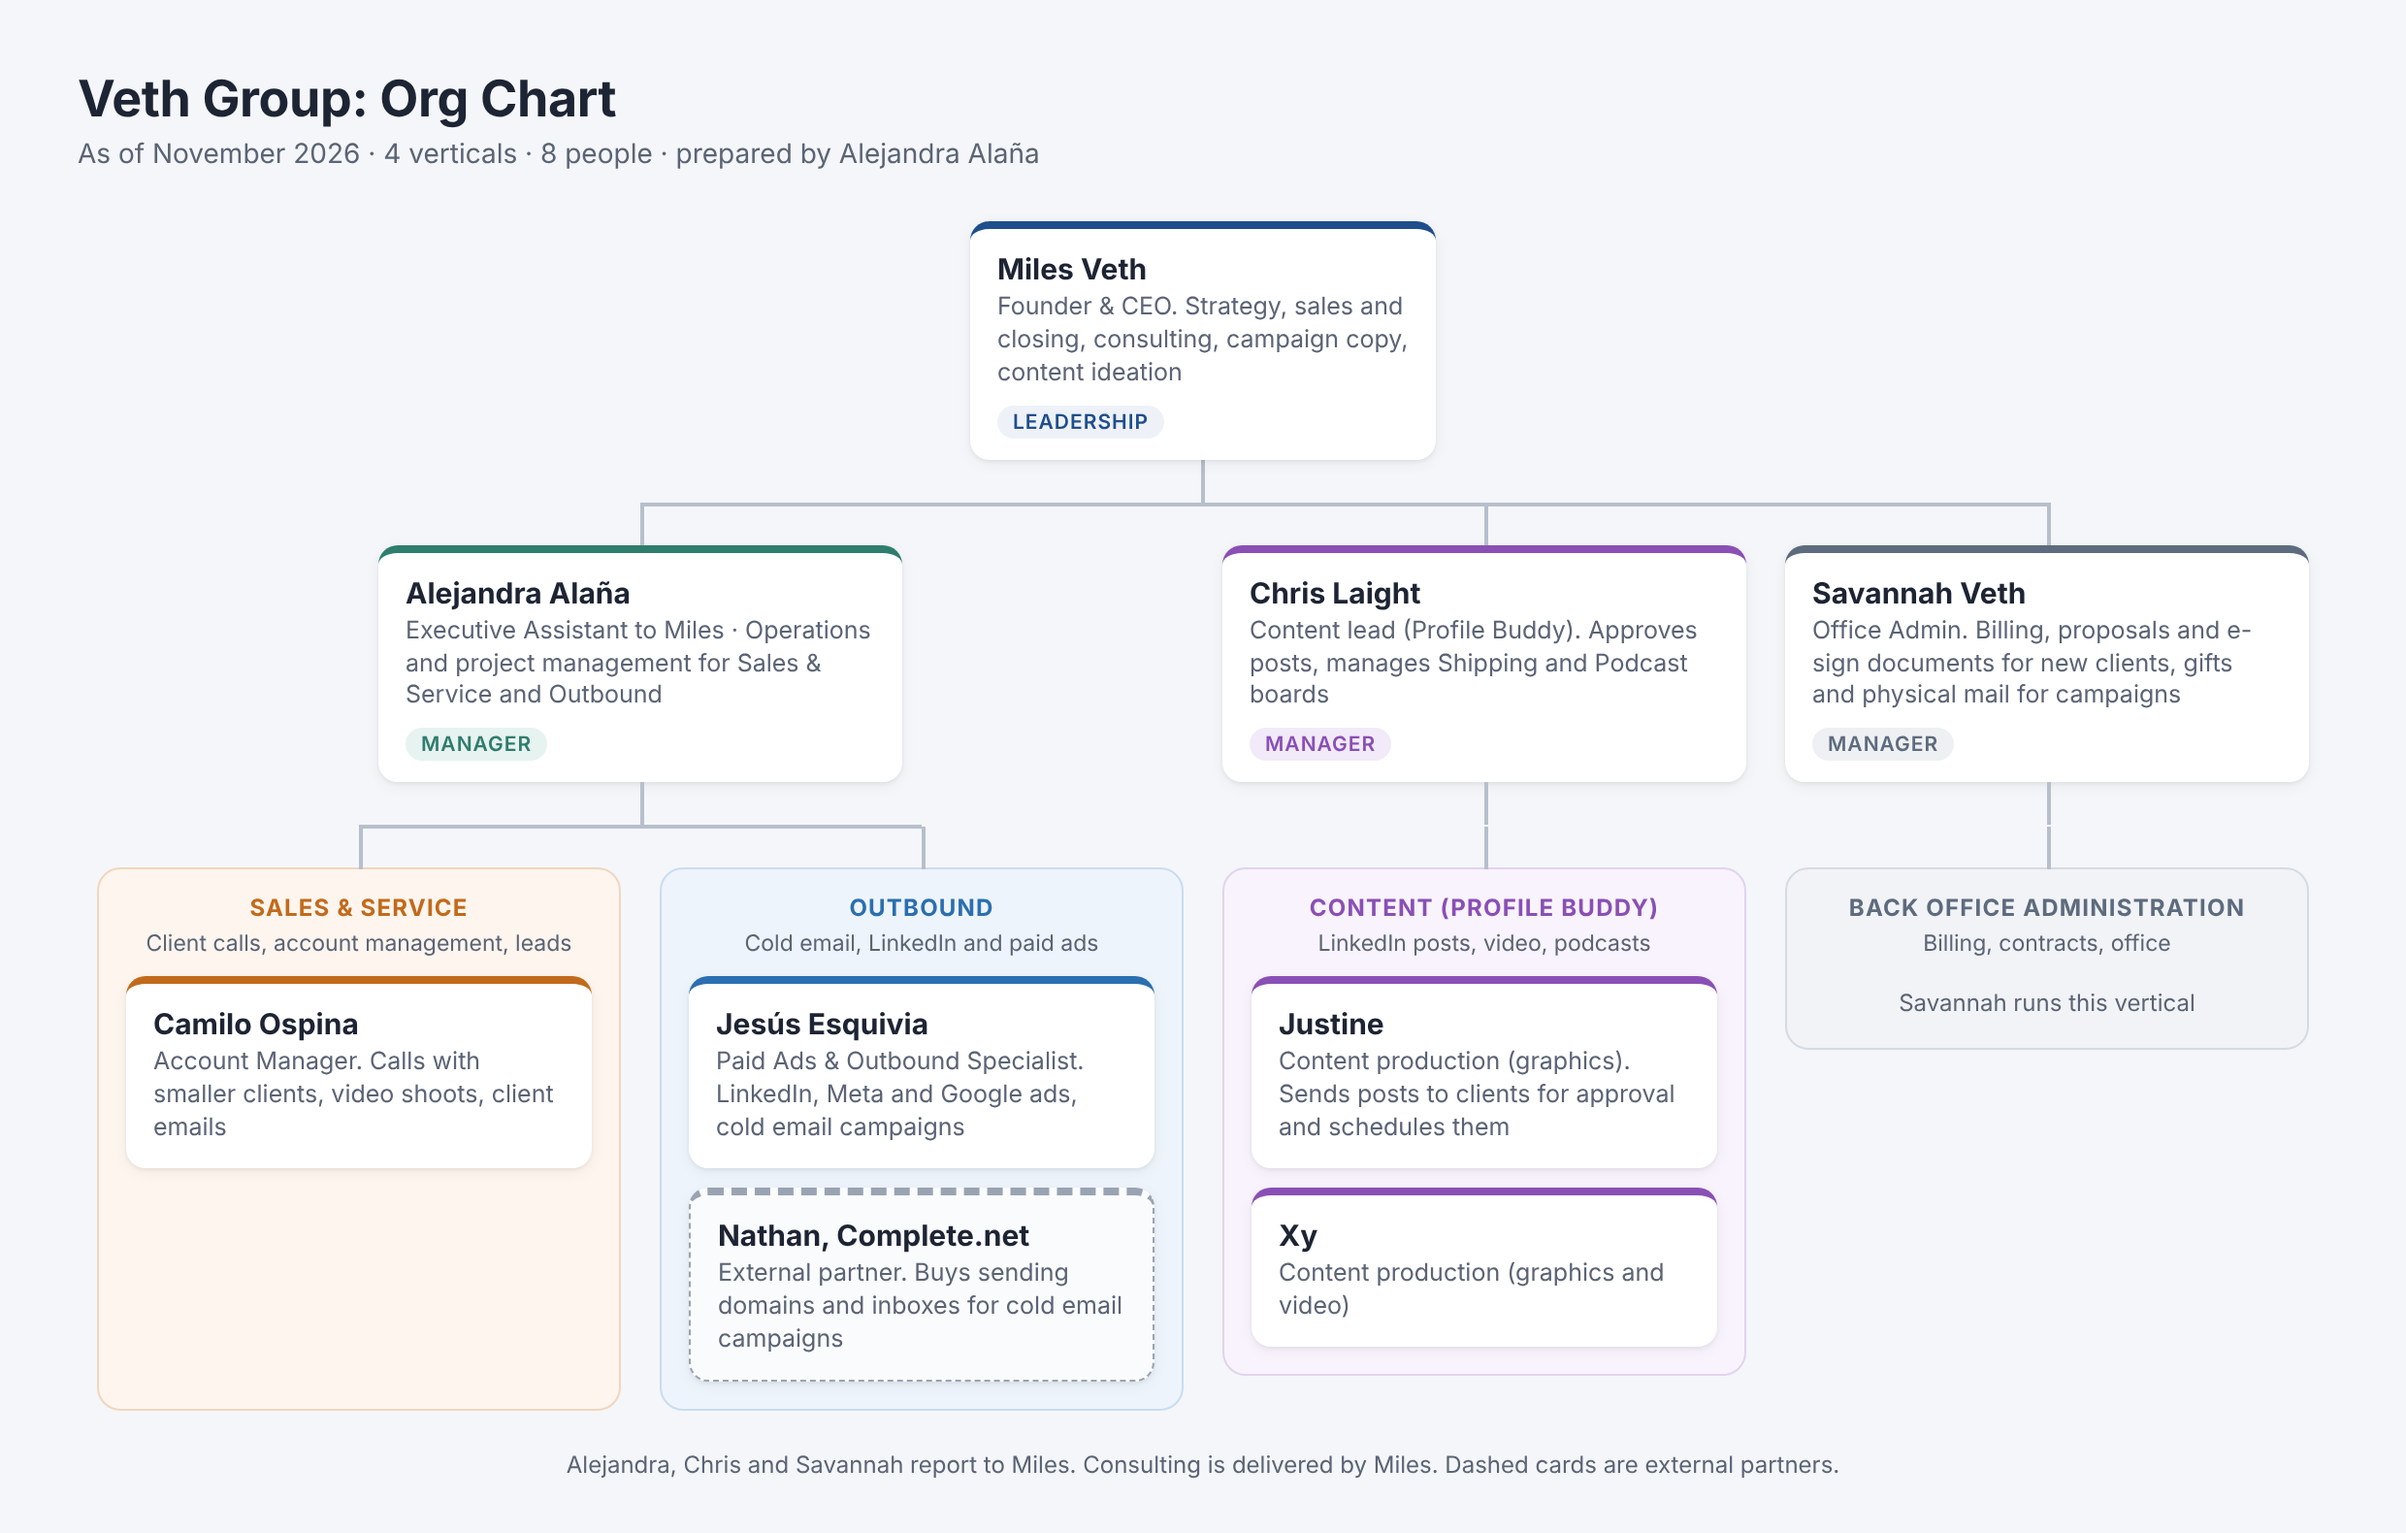
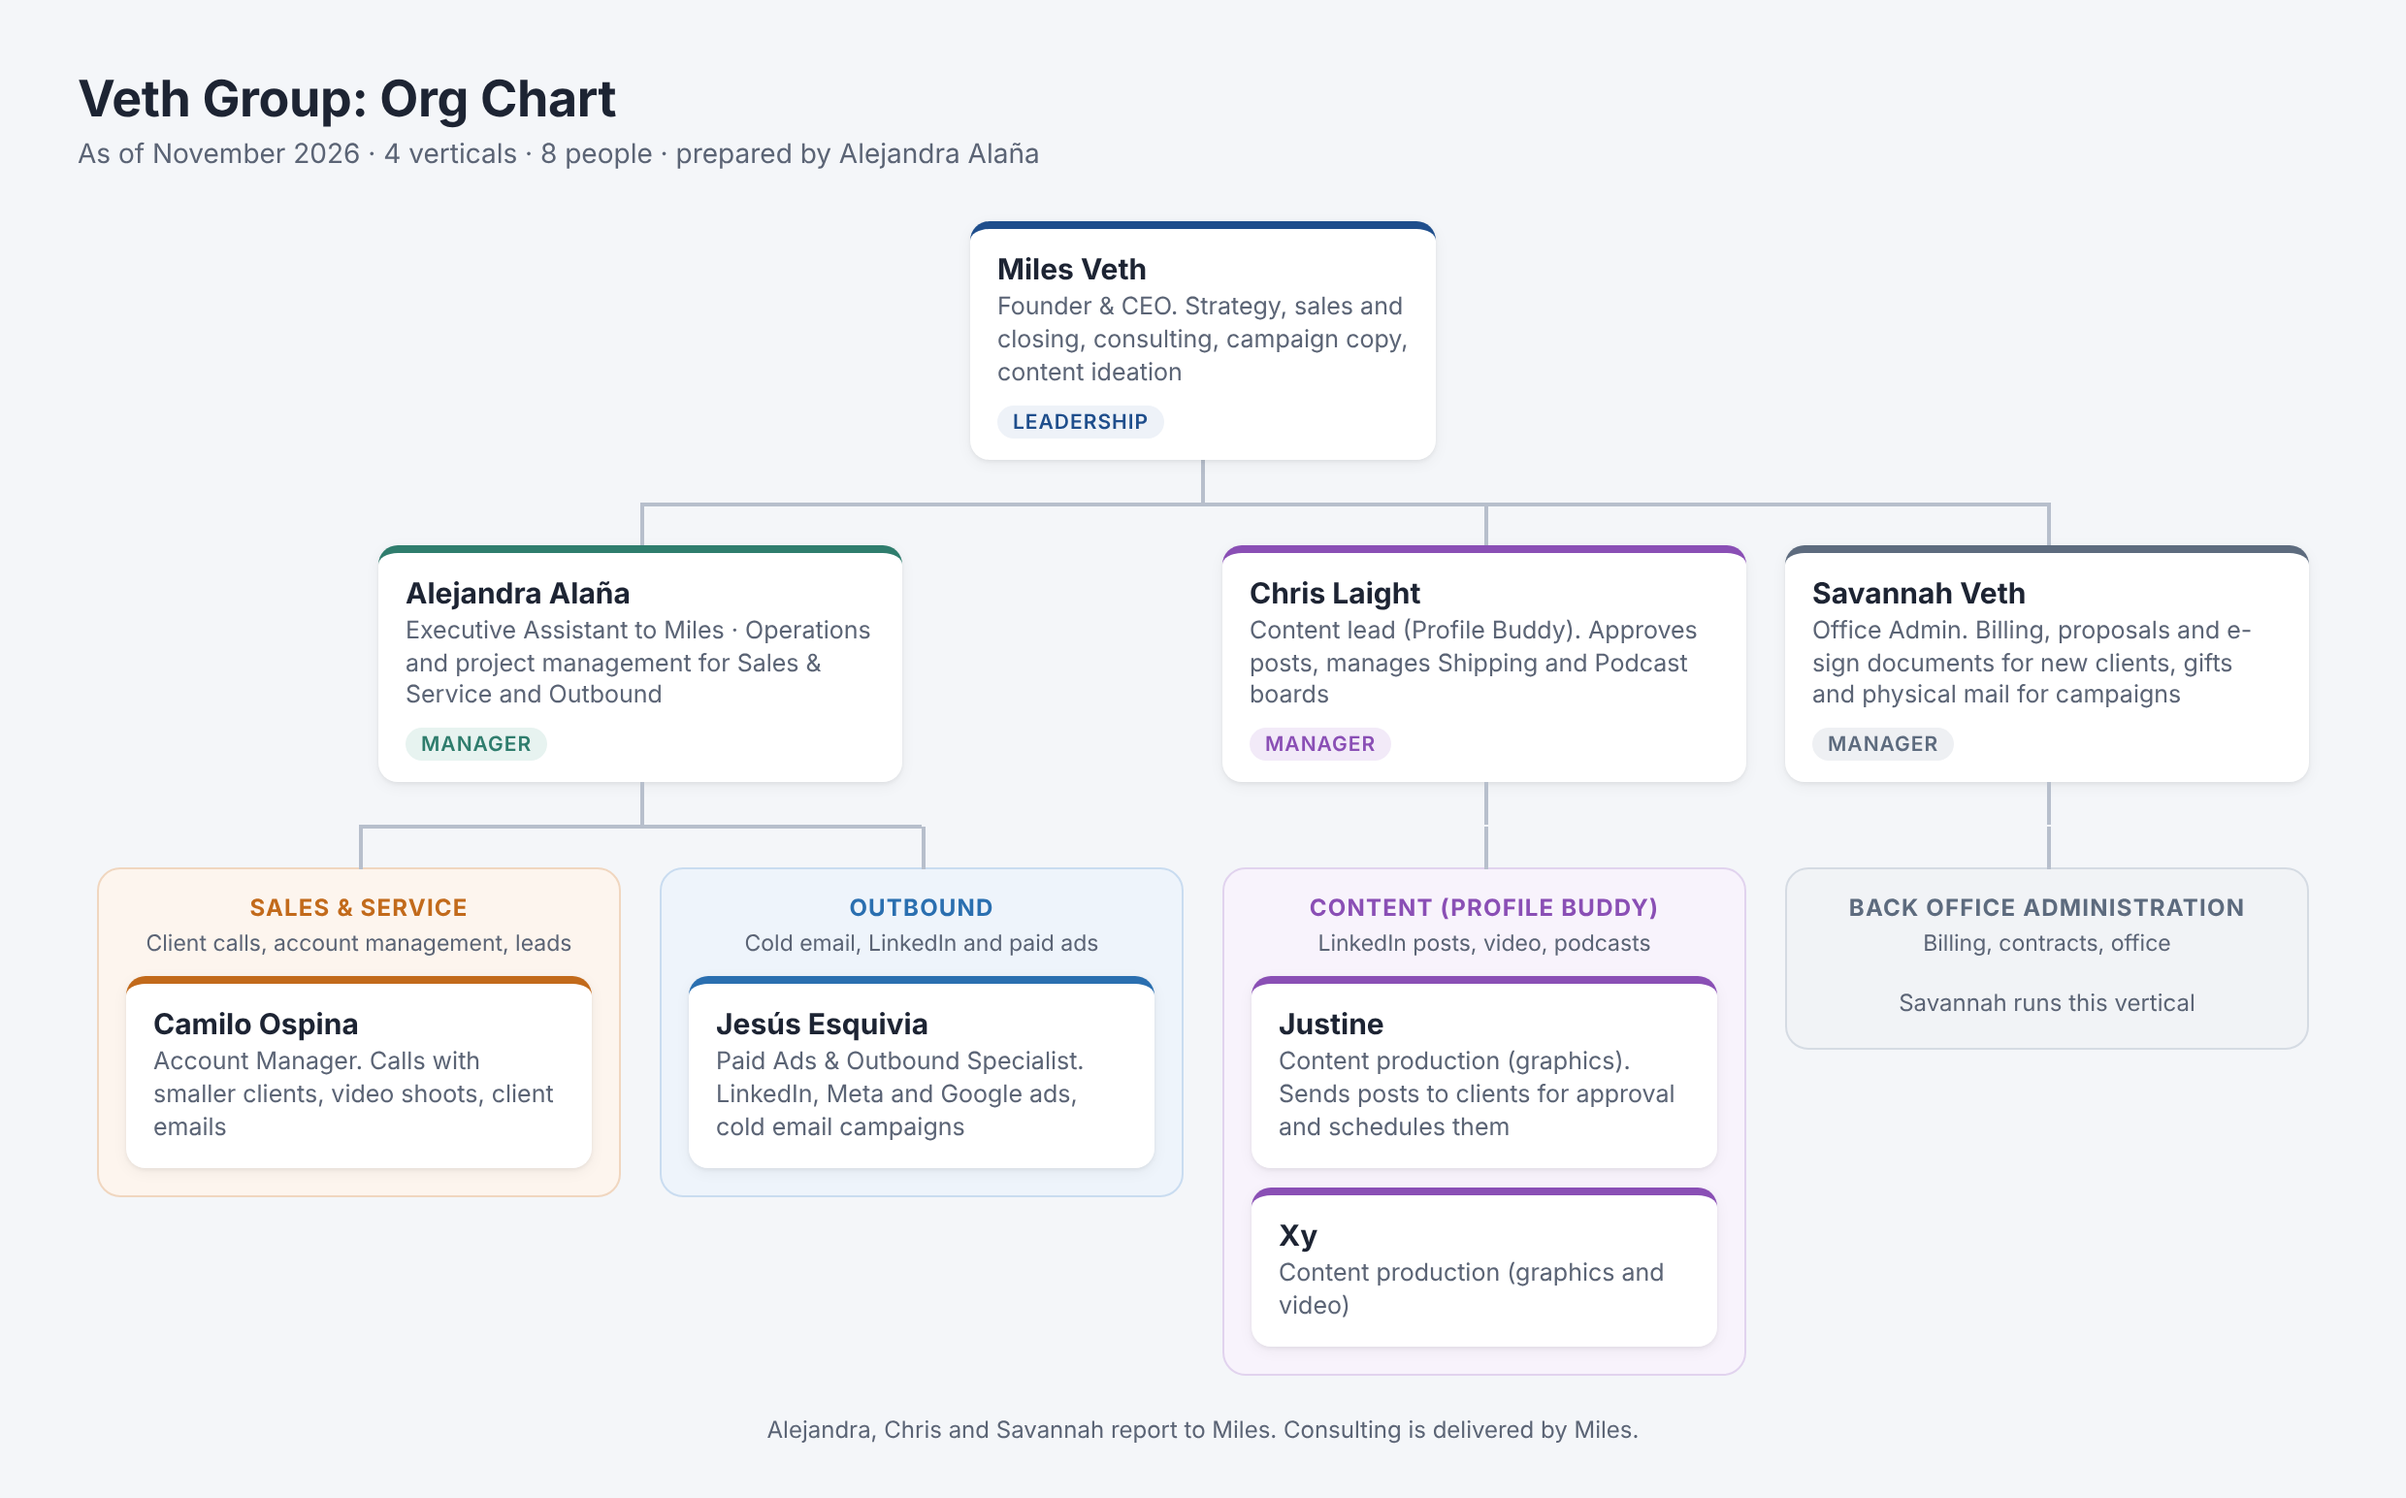
Org chart: remove Nathan (Complete.net)
Claude-Session: https://claude.ai/code/session_01W5gLZdTMe98Ur3aNYbbRVd

diff --git a/coaching-desiree/org_chart.html b/coaching-desiree/org_chart.html
@@ -80,8 +80,6 @@
           <div class="gd">Cold email, LinkedIn and paid ads</div>
           <div class="card"><div class="n">Jesús Esquivia</div>
             <div class="r">Paid Ads &amp; Outbound Specialist. LinkedIn, Meta and Google ads, cold email campaigns</div></div>
-          <div class="card ext"><div class="n">Nathan, Complete.net</div>
-            <div class="r">External partner. Buys sending domains and inboxes for cold email campaigns</div></div>
         </div>
       </div>
     </div>
@@ -118,7 +116,7 @@
     </div>
   </div>
 
-  <div class="note">Alejandra, Chris and Savannah report to Miles. Consulting is delivered by Miles. Dashed cards are external partners.</div>
+  <div class="note">Alejandra, Chris and Savannah report to Miles. Consulting is delivered by Miles.</div>
 </div>
 </body>
 </html>
